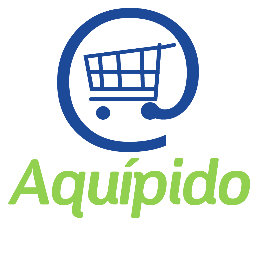
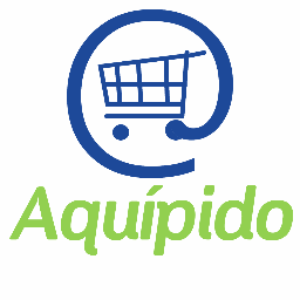
Version 1.0.1
Cambios info e imágenes en files omg

diff --git a/index.html b/index.html
@@ -36,7 +36,7 @@
 			<div class="container">
 				<div class="navbar-header">
 					<button type="button" class="navbar-toggle" data-toggle="collapse" data-target=".navbar-collapse"><i class="fa fa-bars"></i></button>
-					<a class="navbar-brand animate" href="#"><img src="img/logo.png" alt="logo1"></a>
+					<a class="navbar-brand animate" href="#"><img src="img/logo.png" alt="logo0"></a>
 				</div>
 				<div class="navbar-collapse collapse">
 					<ul class="nav navbar-nav navbar-right animate">
@@ -61,14 +61,16 @@
 				<div class="container">
 					<ul class="text-slider clearfix">
 						<li class="clearfix">
-							<span class="lead">Cabrito Valley</span>
 							
+							<span class="lead"><img src="img/logo1.png" alt="logo1"></span>
 						</li>
 						
 						
 					</ul>
 				</div>
 			</div>
+
+
 			<a href="#about" class="go-to godown">
 				<span>
 					<span class="fa fa-angle-double-down fa-2x"></span>
@@ -111,21 +113,21 @@
 						<div class="service-item fadeInUp">
 							<div class="circle circle-l"><i class="fa fa-wrench fa-3x"></i></div>
 							<h3>Startup ecosystem</h3>
-							<p class="font-m">Create an awesome startup ecosystem.</p>
+							<p class="font-m">Create an awesome startup ecosystem with smart and hard working people.</p>
 						</div>
 					</div>
 					<div class="col-sm-4">
 						<div class="service-item fadeInDown">
 							<div class="circle circle-l"><i class="fa fa-universal-access fa-3x"></i></div>
 							<h3>Community</h3>
-							<p class="font-m">Add value to the community. </p>
+							<p class="font-m">We believe that the more we do for others is what will eventually pay off. </p>
 						</div>
 					</div>
 					<div class="col-sm-4">
 						<div class="service-item fadeInUp">
 							<div class="circle circle-l"><i class="fa fa-gear fa-3x"></i></div>
 							<h3>Impact</h3>
-							<p class="font-m"></p>
+							<p class="font-m">By adding value to the community and the startup ecosystem we want to create a social, cultural and economic impact.</p>
 						</div>
 					</div>
 				</div>
@@ -135,35 +137,35 @@
 					<div class="container">
 						<div class="heading">
 							<h3 class="primary-color">Why us?</h3>
-							<p>Lorem ipsum dolor sit amet, consectetuer adipiscing elit, sed diam nonummy nibh</p>
+							<p>Cabrito Valley is the place to disrupt and challenge the status.</p>
 						</div>
 						<div class="row">
 							<div class="col-sm-3">
 								<div class="process-item ">
 									<i class="fa fa-flask fa-3x"></i>
 									<h3>Mentors</h3>
-									<p class="font-m">Experienced people</p>
+									<p class="font-m">Work with awesome mentors who have a vast experience in the startup ecosystem.</p>
 								</div>
 							</div>
 							<div class="col-sm-3">
 								<div class="process-item delay1">
 									<i class="fa fa-inbox fa-3x"></i>
 									<h3>Method</h3>
-									<p class="font-m">Lorem ipsum dolor sit amet, consectetuer adipiscing elit, sed diam nonummy nibh euismod</p>
+									<p class="font-m">We create the conditions to get the best results using  a disruptive approach of proven startups methodology. </p>
 								</div>
 							</div>
 							<div class="col-sm-3">
 								<div class="process-item delay2">
 									<i class="fa fa-gavel fa-3x"></i>
 									<h3>Network</h3>
-									<p class="font-m">Lorem ipsum dolor sit amet, consectetuer adipiscing elit, sed diam nonummy nibh euismod</p>
+									<p class="font-m">A growing network of amazing people with passion and experience that are willing to help the next generation of entrepreneurs.</p>
 								</div>
 							</div>
 							<div class="col-sm-3">
 								<div class="process-item delay3">
 									<i class="fa fa-flag-checkered fa-3x"></i>
 									<h3>Hard Work</h3>
-									<p class="font-m">Lorem ipsum dolor sit amet, consectetuer adipiscing elit, sed diam nonummy nibh euismod</p>
+									<p class="font-m">We are a group of hardworking people that are fully committed to make a change and help your startup in every possible way through mentorship and guidance.</p>
 								</div>
 							</div>
 							
@@ -193,16 +195,16 @@
 					<div class="row">
 						<ul class="team " id="og-grid">
 							<li class="col-md-3">
-								<a href="" class="team-member" data-title="Dan Mueller" data-description="From Sillicon Valley" data-twitter="laloalejandro1" data-facebook="laloalejandrog">
-									<img src="img/Team/user_placeholder.png" alt="" class="img-responsive">
+								<a href="" class="team-member" data-title="Dan Mueller" data-description="From Sillicon Valley" >
+									<img src="img/Team/cesaresparza.png" alt="" class="img-responsive">
 									<span class="name">Dan Mueller</span>
-									<span class="title">Ceo JudoBaby</span>
+									<span class="title">Ceo</span>
 								</a>
 							</li>
 							<li class="col-md-3">
-								<a href="" class="team-member" data-title="Josh Thompson" data-description="Lorem ipsum dolor sit amet, consectetur adipiscing elit. Nullam semper nulla ut augue consectetur, at consequat enim malesuada." data-twitter="GraphBerry" data-facebook="facebook">
-									<img src="img/Team/user_placeholder.png" alt="" class="img-responsive">
-									<span class="name">Josh Thompson</span>
+								<a href="" class="team-member" data-title="Josh Thompson" data-description="Lorem ipsum dolor sit amet, consectetur adipiscing elit. Nullam semper nulla ut augue consectetur, at consequat enim malesuada." data-twitter="" data-facebook="facebook">
+									<img src="img/Team/ivanlozano.png" alt="" class="img-responsive">
+									<span class="name">Icaro Vazquez</span>
 									<span class="title">Co-Founder</span>
 								</a>
 							</li>
@@ -267,21 +269,21 @@
 				<ul class="full-startups clearfix" id="Grid">
 					<li class="mix col-xs-6 col-sm-1 col-md-3 col-lg-2 startups-item fashion">
 						<a href="">
-							<img src="img/startups/placeholder.png" class="img-responsive" alt="">
+							<img src="img/startups/mycloset.png" class="img-responsive" alt="">
 							<div class="mask">
-								<h4>Gracil</h4>
+								<h4>My closet</h4>
 								<div class="divider"><span></span></div>
 								<p class="font-m">Fashion</p>
 							</div>
 						</a>
 					</li>
-					<li class="mix col-xs-6 col-sm-1 col-md-3 col-lg-2 startups-item fintech">
+					<li class="mix col-xs-6 col-sm-1 col-md-3 col-lg-2 startups-item foodtech">
 						<a href="http://aquipido.com">
 							<img src="img/startups/aquipido.png" class="img-responsive" alt="">
 							<div class="mask">
 								<h4>Aqui pido</h4>
 								<div class="divider"><span></span></div>
-								<p class="font-m"></p>
+								<p class="font-m">Foodtech Platform</p>
 							</div>
 						</a>
 					</li>
@@ -291,7 +293,7 @@
 							<div class="mask">
 								<h4>Muse Nation</h4>
 								<div class="divider"><span></span></div>
-								<p class="font-m">Retail</p>
+								<p class="font-m">E-commerce</p>
 							</div>
 						</a>
 					</li>
@@ -304,7 +306,7 @@
 					<p></p>
 				</div>
 				<div style="text-align:center; margin-bottom: 50px">
-					<a href="#contact" class="btn btn-primary">Contact Us</a>
+					<a href="https://cabritovalley.typeform.com/to/t1qoOO" class="btn btn-primary">Contact Us</a>
 				</div>
 			</div>	
 			<div class="branded-section numbers">
@@ -317,25 +319,25 @@
 						<div class="row">
 							<div class="col-md-3">
 								<div class="number-item">
-									<span class="number" id="clientsCounter" data-count="4" data-duration="2">10</span>
+									<span class="number" id="clientsCounter" data-count="4" data-duration="2">4</span>
 									<span class="text">Startups</span>
 								</div>
 							</div>
 							<div class="col-md-3">
 								<div class="number-item">
-									<span class="number" id="projectCounter" data-count="6" data-duration="2.5">6</span>
+									<span class="number" id="projectCounter" data-count="0" data-duration="2.5">0</span>
 									<span class="text">Investments</span>
 								</div>
 							</div>
 							<div class="col-md-3">
 								<div class="number-item">
-									<span class="number" id="awardCounter" data-count="15" data-ration="3">15</span>
+									<span class="number" id="awardCounter" data-count="11" data-ration="3">11</span>
 									<span class="text">Mentors</span>
 								</div>
 							</div>
 							<div class="col-md-3">
 								<div class="number-item">
-									<span class="number" id="coffeeCounter" data-count="77" data-duration="3.5">77</span>
+									<span class="number" id="coffeeCounter" data-count="73" data-duration="3.5">73</span>
 									<span class="text">"Ahaaaa moments!"</span>
 								</div>
 							</div>
@@ -440,25 +442,9 @@
 							<h1 class="light-font">Send us a message</h1>
 							<p class="light-font">We want to hear from you.</p>
 						</div>
-						<form class="form-horizontal"  action="mailto:gcabritovalley@gmail.com">
-							<div class="form-group">
-								<div class="col-sm-4" style="position:relative">
-									<input type="text" name="Name" data-new-placeholder="What is your name?" class="form-control label_better" placeholder="Name">
-								</div>
-								<div class="col-sm-4">
-									<input type="text" name="Email" class="form-control label_better" placeholder="Email">
-								</div>
-								<div class="col-sm-4">
-									<input type="text" name="Phone" class="form-control label_better" placeholder="Phone">
-								</div>
-							</div>
-							<div class="form-group">
-								<div class="col-sm-12">
-									<textarea class="form-control label_better" placeholder="Your comment..." rows="7"></textarea>
-								</div>
-							</div>
+						
 							<div class="form-group commands">
-								<button class="btn btn-primary">Send message</button>
+								<a href="https://cabritovalley.typeform.com/to/t1qoOO" class="btn btn-primary">Send message</a>
 
 								
 </form>
@@ -472,7 +458,8 @@
 		</section>
 		<footer>
 			<div class="container">
-				<p>&copy; Copyright <a href="http://cabritovalley.com">Cabrito Valley</a> 2017 All rights reserved</p>
+				<p>&copy; Copyright <a href="http://cabritovalley.com">Cabrito Valley</a> 2017 All rights reserved  </p>
+				<p> <a href="">#buildingcabritovalley</a>  </p>
 				<ul class="social-list">
 					<li class="facebook">
 						<a href="http://facebook.com"><i class="fa fa-facebook"></i></a>

diff --git a/css/main.css b/css/main.css
@@ -94,7 +94,7 @@ a:focus {
 }
 
 .home {
-	background: url(../img/fundidora.jpg) no-repeat top fixed;
+	background: url(../img/mtyhome.png) no-repeat top fixed;
 	position: relative;
 	width: 100%;
 	position: relative;
@@ -440,7 +440,7 @@ blockquote {
 	z-index: 1000;
 }
 .numbers {
-	background-image: url('../img/monterreycerro.jpg');
+	background-image: url('../img/monterreycerro.png');
 	background-size: cover;
 background-attachment: fixed;
 }

diff --git a/js/bootstrap.js b/js/bootstrap.js
@@ -63,6 +63,7 @@ if (typeof jQuery === "undefined") { throw new Error("Bootstrap requires jQuery"
 
 }(jQuery);
 
+
 /* ========================================================================
  * Bootstrap: alert.js v3.0.3
  * http://getbootstrap.com/javascript/#alerts
